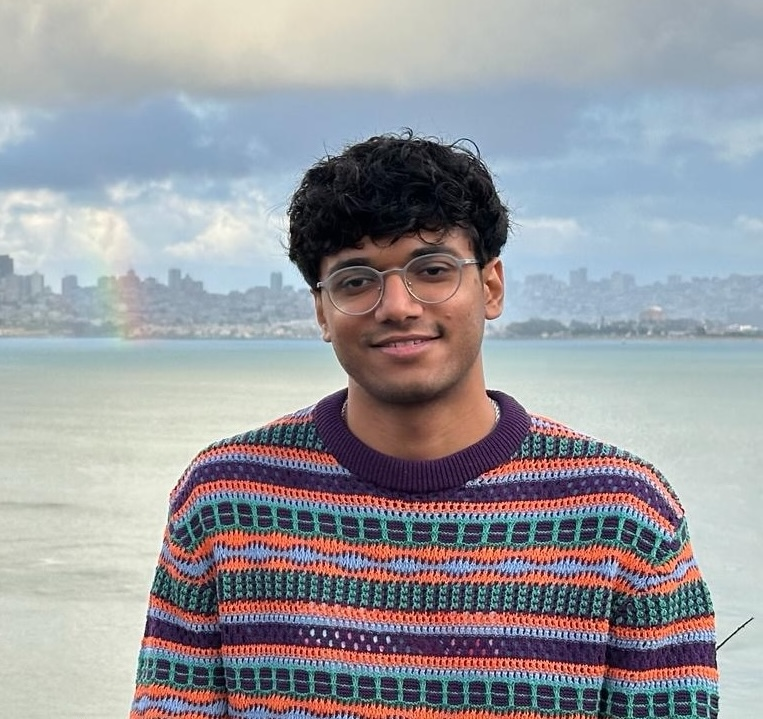
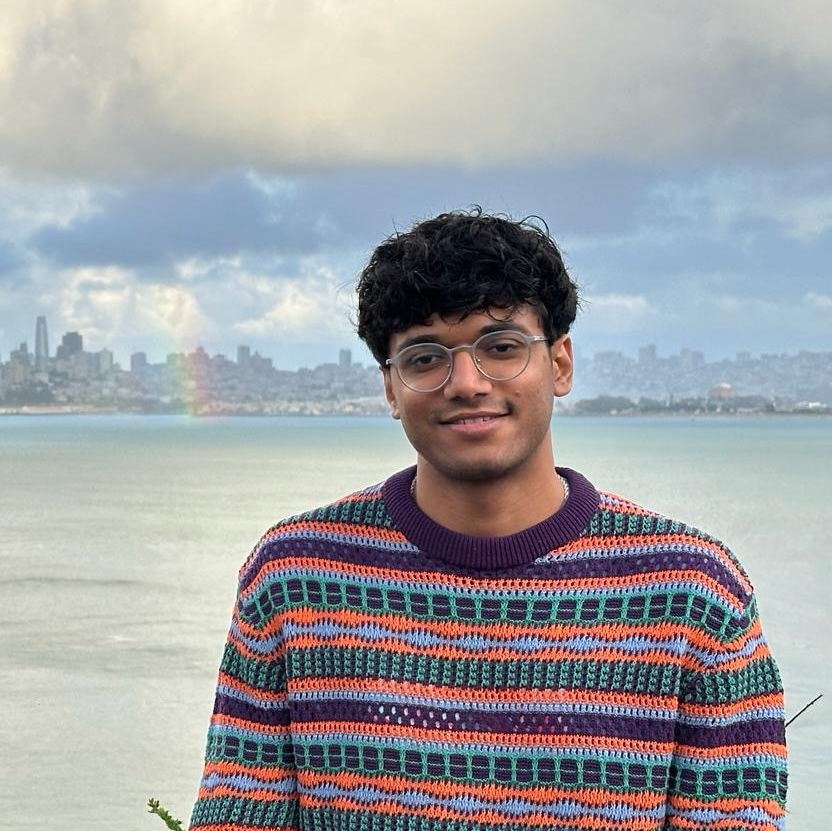
update index.html better profile pic crop. added new project

diff --git a/index.html b/index.html
@@ -1038,35 +1038,6 @@
             50% { opacity: 0.7; transform: translate(-50%, -50%) scale(1.2); }
         }
 
-        /* Scroll Progress Indicator */
-        .scroll-progress {
-            position: fixed;
-            top: 0;
-            left: 0;
-            width: 0%;
-            height: 3px;
-            background: linear-gradient(90deg, var(--primary), var(--secondary), var(--accent));
-            z-index: 2001; /* Increased z-index */
-            transition: width 0.1s ease;
-            box-shadow: 0 0 10px rgba(99, 102, 241, 0.5);
-        }
-
-        .scroll-progress::after {
-            content: '';
-            position: absolute;
-            top: 0;
-            right: 0;
-            width: 20px;
-            height: 100%;
-            background: linear-gradient(90deg, transparent, rgba(255, 255, 255, 0.3));
-            animation: progressShine 2s ease-in-out infinite;
-        }
-
-        @keyframes progressShine {
-            0%, 100% { opacity: 0; }
-            50% { opacity: 1; }
-        }
-
         /* Performance Monitor (Development) */
         .fps-counter {
             position: fixed;
@@ -1257,9 +1228,6 @@
         <div class="loading-logo"></div>
     </div>
 
-    <!-- Scroll Progress Indicator -->
-    <div class="scroll-progress" id="scrollProgress"></div>
-
     <!-- Grid Overlay -->
     <div class="grid-overlay"></div>
 
@@ -1399,14 +1367,17 @@
                 </div>
 
                 <div class="glass-card project-card">
-                    <h3>GPT-2 Reproduction and Optimization from Scratch</h3>
+                    <h3>Bink: AI Conversational Shopping Assistant</h3>
                     <div class="tech-stack">
-                        <span class="tech-tag">PyTorch</span>
-                        <span class="tech-tag">Mixed Precision</span>
-                        <span class="tech-tag">DDP</span>
-                        <span class="tech-tag">Flash Attention</span>
+                        <span class="tech-tag">React</span>
+                        <span class="tech-tag">Node.js</span>
+                        <span class="tech-tag">TypeScript</span>
+                        <span class="tech-tag">Gemini API</span>
+                        <span class="tech-tag">SerpApi</span>
                     </div>
-                    <p class="project-description">Reproduced the GPT-2 (124M) neural network architecture and training process, based on GPT-2 paper.</p>
+                    <p class="project-description">
+                        Developed an AI-powered conversational shopping assistant enabling users to find products via natural language and image-based queries. Integrated Google Gemini for multimodal understanding and intelligent product recommendations, utilizing SerpApi for real-time product searching from Google Shopping.
+                    </p>
                 </div>
 
                 <div class="glass-card project-card">
@@ -1628,15 +1599,6 @@
                     } else {
                         header.classList.remove('scrolled');
                     }
-                }
-
-                // Scroll Progress with throttling
-                const scrollProgress = document.getElementById('scrollProgress');
-                if (scrollProgress) {
-                    const scrollTop = document.documentElement.scrollTop;
-                    const scrollHeight = document.documentElement.scrollHeight - document.documentElement.clientHeight;
-                    const progress = (scrollTop / scrollHeight) * 100;
-                    scrollProgress.style.width = progress + '%';
                 }
 
                 lastScrollY = currentScrollY;
